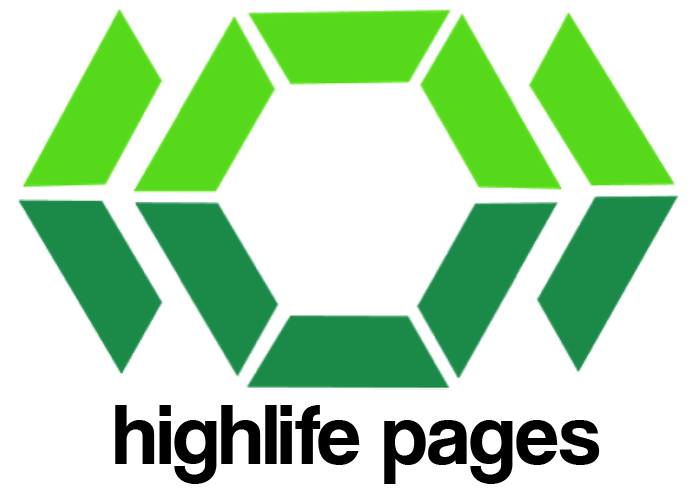
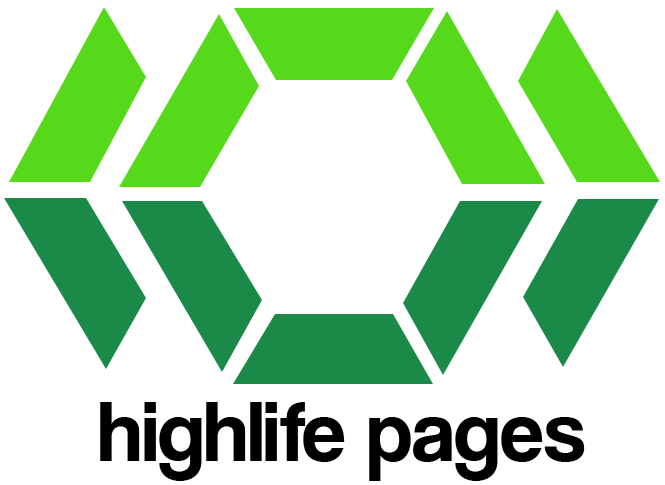
Finished Pricing Chart + more
>finished pricing chart.
>added jQuery Pop-up menus
>Added Privacy Policy
>replaced Images with new logos
<3

diff --git a/index.html b/index.html
@@ -8,7 +8,7 @@
     <meta name="description" content="">
     <meta name="author" content="">
 
-    <title>Highlife Pages: Cannabis Websites made easy. Starting at $499</title>
+    <title>Highlife Pages: Cannabis Websites made easy. Starting at $399</title>
 
     <!-- Bootstrap Core CSS -->
     <link href="vendor/bootstrap/css/bootstrap.min.css" rel="stylesheet">
@@ -25,7 +25,7 @@
 
   <body  id="page-top">
 
-    <!-- Navigation -->
+    <!-------- Navigation ------------>
     <a class="menu-toggle rounded" href="#">
       <i class="fas fa-bars"></i>
     </a>
@@ -58,7 +58,7 @@
           <img src="img/Highlife-w-TEXT.png" style="max-width: 400px;">
         
         <h3 class="mb-5" >
-          <em> Cannabis websites made easy, starting at $399*</em>
+          <em>A web design firm speicalizing in cannabis buisnesses, starting at $399*</em>
         </h3>
         <a class="btn btn-primary btn-xl js-scroll-trigger" href="#about">Find Out More</a>
       </div>
@@ -71,7 +71,7 @@
         <div class="row">
           <div class="col-lg-12 mx-auto">
             <h2>Elevate your brand with a custom website, integrated with your smart menu. </h2>
-            <p class="lead mb-5">Use a smart menu? Elegantly display your menu and increase your web presence, with a simple, sleek, SEO optimized landing page. Our sites work seemlessly with the following services: </p>
+            <p class="lead mb-5">Highlife Pages is a web design firm with deep roots in the blooming cannabis inudstry. We know the market, we know the popular search words and we can not only educate your customers, but create an interface that will build a lasting relationship with them, all while spreading brand awareness through SEO. <strong>Use a smart menu?</strong> Elegantly display your menu and increase your web presence, with a simple, sleek, mobile-friendly landing page. Our sites work seemlessly with the following services: </p>
            
       <!--Logo carosel--> 
   <div class="logosMenu">
@@ -211,18 +211,18 @@
                         <!--FEATURE LIST START-->
                         <div class="generic_feature_list">
                         	<ul>
-                            	<li><span>3</span>Content Sections*</li>
-                                <li><span>Yes</span>SEO Optimized</li>
-                            <li><span>1 Month</span>Free Hosting/Security*</li>
-                                <li><span>0</span> Animated Ads</li>
-                                <li><span>24/7</span> Support</li>
+                            	<li data-toggle="popover" data-trigger="hover" title="More Pages = More traffic" data-content="Choose 3 main content sections (IE. About, Services, Location), and we will add popular keyword-rich text taliored specifially for cannbais companies as well as links and meta tags. This will boost traffic, and pay for the cost of this site in no time!" data-placement="auto"><span>3</span> Pages + SEO<br><span style="font-size: .7em; color:grey;">+ Free Sitemap and Privacy Policy Page</span></li>
+                                <li data-toggle="popover" data-trigger="hover" title="Save $ by letting us handle web hosting and security" data-content="Every website needs a home and security from hackers. Because we host multiple sites, we can offer BOTH for only $150/yr, like a family plan! This also includes site back-ups, unlimited company email addreses (IE. steve@alpinetrinity.com), and a easy to access control panel if you need to make future changes." data-placement="auto"><span>None</span> Hosting+ SSL <br><span style="font-size: .7em; color:red;">Save with us! Only $150/ year!</span></li>
+                            <li data-toggle="popover" data-trigger="hover" title="Auto-adjusts for any screen size" data-content="Web browsers come in all shapes and sizes in todays world. We code all our sites with responisve design, so the mobile version will look just as good as will on your laptop, tablet, or even a TV!" data-placement="auto"><span><i class="fas fa-check"></i></span> Responive Design?</li>
+                                <li data-toggle="popover" data-trigger="hover" title="Company Emails = Trusted Brand" data-content="Anyone would agree that a custom email with your company name looks more trustworthy and professional than a personal email. With our Hosting/SSL package, we offer unlimited email accounts associated with your domain name (IE. bob@alpinetrinity.com)." data-placement="auto"><span>0</span> Company Emails<br><span style="font-size: .7em; color:red;">included with Hosting/SSL Plan</span></li>
+                                <li data-toggle="popover" data-trigger="hover" title="Need Support?" data-content="We treat our customers like family, drop us a line anytime, and we will get on it ASAP!" data-placement="auto"><span>24/7</span> Support</li>
                             </ul>
                         </div>
                         <!--//FEATURE LIST END-->
                         
                         <!--BUTTON START-->
                         <div class="generic_price_btn clearfix">
-                        	<a class="js-scroll-trigger" href="#portfolio">Get Started</a>
+                        	<a class="js-scroll-trigger" href="#contact">Get Started</a>
                         </div>
                         <!--//BUTTON END-->
                         
@@ -256,7 +256,7 @@
                             <div class="generic_price_tag clearfix">	
                                 <span class="price">
                                     <span class="sign">$</span>
-                                    <span class="currency">599</span>
+                                    <span class="currency">699</span>
                                     <span class="cent">.99</span>
                                  
                                 </span>
@@ -269,18 +269,18 @@
                         <!--FEATURE LIST START-->
                         <div class="generic_feature_list">
                         	<ul>
-                            	<li><span>5</span>Content Sections*</li>
-                                <li><span>Yes</span> SEO Copy Editing</li>
-                                <li><span>6/months</span> Free Hosting/Security</li>
-                                <li><span>0</span> Animated Ads</li>
-                                <li><span>24/7</span> Support</li>
+                            	<li data-toggle="popover" data-trigger="hover" title="More Pages = More traffic" data-content="We know the hot search words related to cannabis and will optimize each page to bring in traffic from search engines. This will bring in more ROI than any other feature." data-placement="auto"><span>5</span> Pages + SEO<br><span style="font-size: .7em; color:grey;">+ Free Sitemap and Privacy Policy Page</span></li>
+                                <li data-toggle="popover" data-trigger="hover" title="First Year on us! Dirt cheap after that!" data-content="Every website needs a home and security from hackers. Because we host multiple sites, we can offer BOTH for only $150/yr, like a family plan! This also includes site back-ups, unlimited company email addreses (IE. steve@alpinetrinity.com), and a easy to access control panel if you need to make future changes." data-placement="auto"><span>1 Year FREE</span> Hosting+ SSL <br><span style="font-size: .7em; color:grey;">Only $150/ year after that!</span></li>
+                            <li data-toggle="popover" data-trigger="hover" title="Auto-adjusts for any screen size" data-content="Web browsers come in all shapes and sizes in todays world. We code all our sites with responisve design, so the mobile version will look just as good as will on your laptop, tablet, or even a TV!" data-placement="auto"><span><i class="fas fa-check"></i></span> Responive Design?</li>
+                                <li data-toggle="popover" data-trigger="hover" title="Company Emails = Trusted Brand" data-content="Anyone would agree that a custom email with your company name looks more trustworthy and professional than a personal email. With our Hosting/SSL package, we offer unlimited email accounts associated with your domain name (IE. bob@alpinetrinity.com)." data-placement="auto"><span>Unlimited</span> Company Emails<br><span style="font-size: .7em; color:grey;">Included with Hosting SSL plan</span></li>
+                                <li data-toggle="popover" data-trigger="hover" title="Need Support?" data-content="We treat our customers like family, drop us a line anytime, and we will get on it ASAP!" data-placement="auto"><span>24/7</span> Support</li>
                             </ul>
                         </div>
                         <!--//FEATURE LIST END-->
                         
                         <!--BUTTON START-->
                         <div class="generic_price_btn clearfix">
-                        	<a class="js-scroll-trigger" href="#portfolio">Get Started</a>
+                        	<a class="js-scroll-trigger" href="#contact">Get Started</a>
                         </div>
                         <!--//BUTTON END-->
                         
@@ -313,7 +313,7 @@
                             <div class="generic_price_tag clearfix">	
                                 <span class="price">
                                     <span class="sign">$</span>
-                                    <span class="currency">1199</span>
+                                    <span class="currency">999</span>
                                     <span class="cent">.99</span>
                                     
                                 </span>
@@ -326,18 +326,22 @@
                         <!--FEATURE LIST START-->
                         <div class="generic_feature_list">
                         	<ul>
-                                <li><span>Unlimited</span> Content Sections*</li>
-                                <li><span>Yes</span> SEO Optimized</li>
-                                <li><span>1/yr</span> Free Hosting/ Security</li>
-                                <li><span>1</span> Animated Ads</li>
-                                <li><span>24/7</span> Support</li>
+                                <li data-toggle="popover" data-trigger="hover" title="More Pages = More traffic" data-content="We know the hot search words related to cannabis and will optimize each page to bring in traffic from search engines. This will bring in more ROI than any other feature." data-placement="auto"><span>7</span> Pages + SEO<br><span style="font-size: .7em; color:grey;">+ Free Sitemap and Privacy Policy Page</span></li>
+                                
+                                <li data-toggle="popover" data-trigger="hover" title="First Year on us! Dirt cheap after that!" data-content="Every website needs a home and security from hackers. Because we host multiple sites, we can offer BOTH for only $150/yr, like a family plan! This also includes site back-ups, unlimited company email addreses (IE. steve@alpinetrinity.com), and a easy to access control panel if you need to make future changes." data-placement="auto"><span>1 Year FREE</span> Hosting+ SSL <br><span style="font-size: .7em; color:gray;">Only $150/ year after that!</span></li>
+                                
+                            <li data-toggle="popover" data-trigger="hover" title="Auto-adjusts for any screen size" data-content="Web browsers come in all shapes and sizes in todays world. We code all our sites with responisve design, so the mobile version will look just as good as will on your laptop, tablet, or even a TV!" data-placement="auto"><span><i class="fas fa-check"></i></span> Responive Design?</li>
+                                
+                                <li data-toggle="popover" data-trigger="hover" title="Company Emails = Trusted Brand" data-content="Anyone would agree that a custom email with your company name looks more trustworthy and professional than a personal email. With our Hosting/SSL package, we offer unlimited email accounts associated with your domain name (IE. bob@alpinetrinity.com)." data-placement="auto"><span>Unlimited</span> Company Emails<br><span style="font-size: .7em; color:grey;">Included with Hosting SSL plan</span></li>
+                                <li data-toggle="popover" data-trigger="hover" title="Need Support?" data-content="We treat our customers like family, drop us a line anytime, and we will get on it ASAP!" data-placement="auto"><span>24/7</span> Support</li>
+                                
                             </ul>
                         </div>
                         <!--//FEATURE LIST END-->
                         
                         <!--BUTTON START-->
                         <div class="generic_price_btn clearfix">
-                        	<a class="js-scroll-trigger" href="#portfolio">Get Started</a>
+                        	<a class="js-scroll-trigger" href="#contact">Get Started</a>
                         </div>
                         <!--//BUTTON END-->
                         
@@ -352,6 +356,11 @@
   <!---PRICE CHART END--->  
           </div>
           </div>
+        
+        <div style="display: block; text-align: center">
+            <h3>Secure billing and invoicing through </h3> <img src="img/1200px-Wave_logo_RGB.png" style="width:200px; height:auto;">
+        </div>
+        
      </section>  
 
     <!-- Portfolio -->
@@ -396,11 +405,12 @@
           </li>
           <li class="list-inline-item">
             <a class="social-link rounded-circle text-white" href="#">
-              <i class="icon-social-github"></i>
+              <i class="icon-social-instagram"></i>
             </a>
           </li>
         </ul>
-        <p class="text-muted small mb-0">Copyright &copy; Highlife Pages 2019</p>
+        <p class="text-muted small mb-0">Copyright &copy; Highlife Pages 2019</p> <br>
+          <a href="pages/privacy.html">Privacy Policy</a>
       </div>
     </footer>
 
@@ -408,6 +418,9 @@
     <a class="scroll-to-top rounded js-scroll-trigger" href="#page-top">
       <i class="fas fa-angle-up"></i>
     </a>
+      
+   
+   
 
     <!-- Bootstrap core JavaScript -->
     <script src="vendor/jquery/jquery.js"></script>
@@ -418,6 +431,13 @@
 
     <!-- Custom scripts for this template -->
     <script src="js/stylish-portfolio.min.js"></script>
+      
+     <!-- init popup windows -->     
+         <script>
+    $(document).ready(function(){
+     $('[data-toggle="popover"]').popover(); 
+           });
+</script>
 
   </body>
 

diff --git a/pages/privacy.html b/pages/privacy.html
@@ -1,0 +1,167 @@
+<!DOCTYPE html>
+<html lang="en">
+
+  <head>
+
+    <meta charset="utf-8">
+    <meta name="viewport" content="width=device-width, initial-scale=1, shrink-to-fit=no">
+    <meta name="description" content="">
+    <meta name="author" content="">
+
+    <title>Highlife Pages: Privacy Policy</title>
+
+    <!-- Bootstrap Core CSS -->
+    <link href="../vendor/bootstrap/css/bootstrap.min.css" rel="stylesheet">
+
+    <!-- Custom Fonts -->
+    <link href="..vendor/fontawesome-free/css/all.css" rel="stylesheet" type="text/css">
+    <link href="https://fonts.googleapis.com/css?family=Source+Sans+Pro:300,400,700,300italic,400italic,700italic" rel="stylesheet" type="text/css">
+    <link href="../vendor/simple-line-icons/css/simple-line-icons.css" rel="stylesheet">
+
+    <!-- Custom CSS -->
+    <link href="../css/stylish-portfolio.css" rel="stylesheet">
+
+  </head>
+    <body  id="page-top">
+
+         <div style="text-align: center; padding:50px;">
+            <a href="../index.html" style="text-align: center"><img src="../img/Highlife-w-TEXT.png" style="width:80%; height:auto; "></a>
+           </div>
+        
+            <div style="text-align: left; padding:50px;">
+<h1>Privacy Policy</h1>
+
+
+<p>Effective date: January 22, 2019</p>
+
+
+<p>Highlife Pages ("us", "we", or "our") operates the www.highlifepages.com website (the "Service").</p>
+
+<p>This page informs you of our policies regarding the collection, use, and disclosure of personal data when you use our Service and the choices you have associated with that data. Our Privacy Policy  for Highlife Pages is created with the help of the <a href="https://www.freeprivacypolicy.com/">Free Privacy Policy website</a>.</p>
+
+<p>We use your data to provide and improve the Service. By using the Service, you agree to the collection and use of information in accordance with this policy. Unless otherwise defined in this Privacy Policy, terms used in this Privacy Policy have the same meanings as in our Terms and Conditions, accessible from www.highlifepages.com</p>
+
+
+<h2>Information Collection And Use</h2>
+
+<p>We collect several different types of information for various purposes to provide and improve our Service to you.</p>
+
+<h3>Types of Data Collected</h3>
+
+<h4>Personal Data</h4>
+
+<p>While using our Service, we may ask you to provide us with certain personally identifiable information that can be used to contact or identify you ("Personal Data"). Personally identifiable information may include, but is not limited to:</p>
+
+<ul>
+<li>Email address</li><li>First name and last name</li><li>Phone number</li><li>Address, State, Province, ZIP/Postal code, City</li><li>Cookies and Usage Data</li>
+</ul>
+
+<h4>Usage Data</h4>
+
+<p>We may also collect information how the Service is accessed and used ("Usage Data"). This Usage Data may include information such as your computer's Internet Protocol address (e.g. IP address), browser type, browser version, the pages of our Service that you visit, the time and date of your visit, the time spent on those pages, unique device identifiers and other diagnostic data.</p>
+
+<h4>Tracking & Cookies Data</h4>
+<p>We use cookies and similar tracking technologies to track the activity on our Service and hold certain information.</p>
+<p>Cookies are files with small amount of data which may include an anonymous unique identifier. Cookies are sent to your browser from a website and stored on your device. Tracking technologies also used are beacons, tags, and scripts to collect and track information and to improve and analyze our Service.</p>
+<p>You can instruct your browser to refuse all cookies or to indicate when a cookie is being sent. However, if you do not accept cookies, you may not be able to use some portions of our Service.</p>
+<p>Examples of Cookies we use:</p>
+<ul>
+    <li><strong>Session Cookies.</strong> We use Session Cookies to operate our Service.</li>
+    <li><strong>Preference Cookies.</strong> We use Preference Cookies to remember your preferences and various settings.</li>
+    <li><strong>Security Cookies.</strong> We use Security Cookies for security purposes.</li>
+</ul>
+
+<h2>Use of Data</h2>
+    
+<p>Highlife Pages uses the collected data for various purposes:</p>    
+<ul>
+    <li>To provide and maintain the Service</li>
+    <li>To notify you about changes to our Service</li>
+    <li>To allow you to participate in interactive features of our Service when you choose to do so</li>
+    <li>To provide customer care and support</li>
+    <li>To provide analysis or valuable information so that we can improve the Service</li>
+    <li>To monitor the usage of the Service</li>
+    <li>To detect, prevent and address technical issues</li>
+</ul>
+
+<h2>Transfer Of Data</h2>
+<p>Your information, including Personal Data, may be transferred to — and maintained on — computers located outside of your state, province, country or other governmental jurisdiction where the data protection laws may differ than those from your jurisdiction.</p>
+<p>If you are located outside United States and choose to provide information to us, please note that we transfer the data, including Personal Data, to United States and process it there.</p>
+<p>Your consent to this Privacy Policy followed by your submission of such information represents your agreement to that transfer.</p>
+<p>Highlife Pages will take all steps reasonably necessary to ensure that your data is treated securely and in accordance with this Privacy Policy and no transfer of your Personal Data will take place to an organization or a country unless there are adequate controls in place including the security of your data and other personal information.</p>
+
+<h2>Disclosure Of Data</h2>
+
+<h3>Legal Requirements</h3>
+<p>Highlife Pages may disclose your Personal Data in the good faith belief that such action is necessary to:</p>
+<ul>
+    <li>To comply with a legal obligation</li>
+    <li>To protect and defend the rights or property of Highlife Pages</li>
+    <li>To prevent or investigate possible wrongdoing in connection with the Service</li>
+    <li>To protect the personal safety of users of the Service or the public</li>
+    <li>To protect against legal liability</li>
+</ul>
+
+<h2>Security Of Data</h2>
+<p>The security of your data is important to us, but remember that no method of transmission over the Internet, or method of electronic storage is 100% secure. While we strive to use commercially acceptable means to protect your Personal Data, we cannot guarantee its absolute security.</p>
+
+<h2>Service Providers</h2>
+<p>We may employ third party companies and individuals to facilitate our Service ("Service Providers"), to provide the Service on our behalf, to perform Service-related services or to assist us in analyzing how our Service is used.</p>
+<p>These third parties have access to your Personal Data only to perform these tasks on our behalf and are obligated not to disclose or use it for any other purpose.</p>
+
+<h3>Analytics</h3>
+<p>We may use third-party Service Providers to monitor and analyze the use of our Service.</p>    
+<ul>
+        <li>
+        <p><strong>Google Analytics</strong></p>
+        <p>Google Analytics is a web analytics service offered by Google that tracks and reports website traffic. Google uses the data collected to track and monitor the use of our Service. This data is shared with other Google services. Google may use the collected data to contextualize and personalize the ads of its own advertising network.</p>
+        <p>You can opt-out of having made your activity on the Service available to Google Analytics by installing the Google Analytics opt-out browser add-on. The add-on prevents the Google Analytics JavaScript (ga.js, analytics.js, and dc.js) from sharing information with Google Analytics about visits activity.</p>                <p>For more information on the privacy practices of Google, please visit the Google Privacy & Terms web page: <a href="https://policies.google.com/privacy?hl=en">https://policies.google.com/privacy?hl=en</a></p>
+    </li>
+                            </ul>
+
+
+<h2>Links To Other Sites</h2>
+<p>Our Service may contain links to other sites that are not operated by us. If you click on a third party link, you will be directed to that third party's site. We strongly advise you to review the Privacy Policy of every site you visit.</p>
+<p>We have no control over and assume no responsibility for the content, privacy policies or practices of any third party sites or services.</p>
+
+
+<h2>Children's Privacy</h2>
+<p>Our Service does not address anyone under the age of 18 ("Children").</p>
+<p>We do not knowingly collect personally identifiable information from anyone under the age of 18. If you are a parent or guardian and you are aware that your Children has provided us with Personal Data, please contact us. If we become aware that we have collected Personal Data from children without verification of parental consent, we take steps to remove that information from our servers.</p>
+
+
+<h2>Changes To This Privacy Policy</h2>
+<p>We may update our Privacy Policy from time to time. We will notify you of any changes by posting the new Privacy Policy on this page.</p>
+<p>We will let you know via email and/or a prominent notice on our Service, prior to the change becoming effective and update the "effective date" at the top of this Privacy Policy.</p>
+<p>You are advised to review this Privacy Policy periodically for any changes. Changes to this Privacy Policy are effective when they are posted on this page.</p>
+
+
+<h2>Contact Us</h2>
+<p>If you have any questions about this Privacy Policy, please contact us:</p>
+<ul>
+        <li>By email: highlifepages@gmail.com</li>
+          
+        </ul>
+        
+            <!-- Bootstrap core JavaScript -->
+    <script src="../vendor/jquery/jquery.js"></script>
+    <script src="../vendor/bootstrap/js/bootstrap.bundle.min.js"></script>
+
+    <!-- Plugin JavaScript -->
+    <script src="../vendor/jquery-easing/jquery.easing.min.js"></script>
+
+    <!-- Custom scripts for this template -->
+    <script src="../js/stylish-portfolio.min.js"></script>
+      
+   </div>
+   <div style=" text-align: center">
+       <button class="btn-primary" style=" padding:10px; border-radius: 5px;"><a href="../index.html" style="text-align: center; color: white;"><h1>Got it!</h1></a></button>
+        </div>
+        
+       <div style="text-align: center; padding:50px;">
+            <a href="../index.html" style="text-align: center"><img src="../img/Highlife-w-TEXT.png" style="width:50%; height:auto; "></a>
+           </div>
+        
+  </body>
+
+</html>

diff --git a/css/stylish-portfolio.css b/css/stylish-portfolio.css
@@ -478,7 +478,7 @@ body{background-color:#eee;}
 
 
 
-/*PRICE BODY CODE START*/
+/*-_-_-_-_-____-_-_______---PRICE BODY CODE START-_-_-____-_-_-_-----------_____---*/
 
 #generic_price_table .generic_content{
 	overflow: hidden;
@@ -807,7 +807,14 @@ body{background-color:#eee;}
 }
 
 
-/* CSS FOR LOGO SLIDER */
+/*=-=-=-=--=--=-=-=-=-=-=-=-=-POP UP WINDOWS =-=-=-=-=--=-=-=-=-=-=-=-=--=-=-*/
+
+
+
+
+
+
+/* =-=-=-=-=-=-=-=-=-=-=CSS FOR LOGO SLIDER=--=-=-=-=-=--=-=-=-=-=-=-=-=-=-=-=-=-=-=-=-=-=- */
 
 
 .logosMenu{
